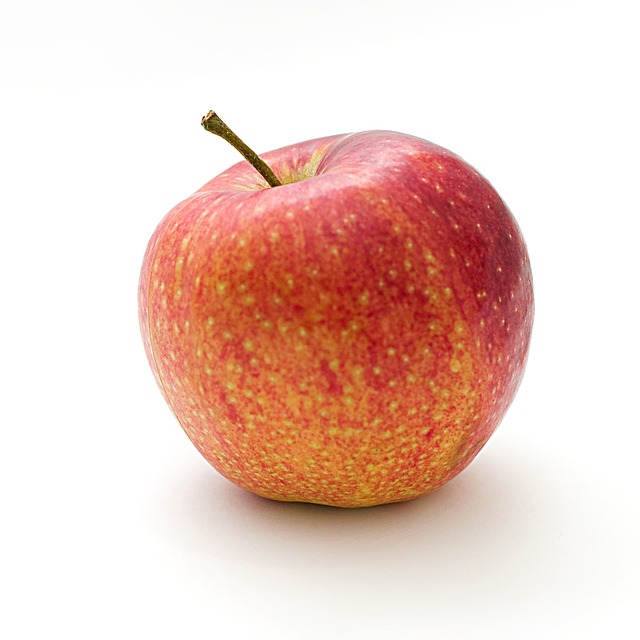
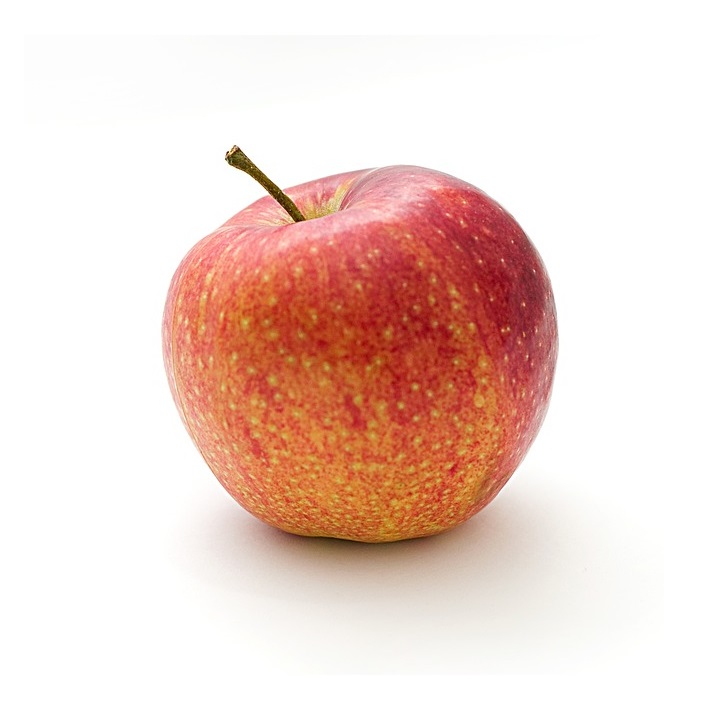
Se corrigieron imgs, se agrego js para crear tarjetas, pendiente css

Changed region(s): [[0.1875, 0.1562, 0.8438, 0.9062]]

diff --git a/js/script.js b/js/script.js
@@ -1,0 +1,39 @@
+/* var catalogo = [{id: 1, nombre: "Manzanas", peso: 0.200, precio: 1.00, ruta: "../imagenes/manzana.jpg"}, 
+{id: 2, nombre: "Naranjas", peso: 0.180, precio: 0.60}, 
+{id: 3, nombre: "Papayas", peso: 2.000, precio: 2.00},
+{id: 4, nombre: "Plátanos", peso: 0.150, precio: 0.50},
+{id: 5, nombre: "Mangos", peso: 0.350, precio: 1.20},
+{id: 6, nombre: "Duraznos", peso: 0.100, precio: 0.30},
+{id: 7, nombre: "Fresas", peso: 0.005, precio: 0.05},
+{id: 8, nombre: "Palta", peso: 0.450, precio: 1.80}] */
+
+var catalogo = [
+    {id: 1, nombre: "Manzana caña", categoria: "fruta", peso: 0.250, precio: 1.80, ruta: "../imagenes/manzana.jpg"},
+    {id: 2, nombre: "Cebolla roja", categoria: "verdura", peso: 0.200, precio: 0.30, ruta: "../imagenes/cebolla.webp"},
+    {id: 3, nombre: "Coliflor", categoria: "verdura", peso: 0.800, precio: 1.00, ruta: "../imagenes/coliflor.webp"},
+    {id: 4, nombre: "Limón", categoria: "verdura", peso: 0.080, precio: 0.10, ruta: "../imagenes/limón.webp"},
+    {id: 5, nombre: "Palta Hass", categoria: "verdura", peso: 0.200, precio: 2.20, ruta: "../imagenes/palta.jpg"},
+    {id: 6, nombre: "Pera", categoria: "fruta", peso: 0.150, precio: 1.30, ruta: "../imagenes/pera.jpg"},
+    {id: 7, nombre: "Pitahaya", categoria: "fruta", peso: 0.200, precio: 2.00, ruta: "../imagenes/pitahaya.webp"},
+    {id: 8, nombre: "Poro", categoria: "verdura", peso: 0.150, precio: 0.50, ruta: "../imagenes/poro.webp"},
+    
+]
+
+renderizarCatalogo(catalogo)
+
+function renderizarCatalogo(catalogo) {
+    let main = document.getElementById("main")
+    for (let i = 0; i < catalogo.length; i++) {
+        let {nombre, peso, precio, ruta} = catalogo[i]
+        main.innerHTML += `
+            <div class=tarjeta>
+                <img src=${ruta}>
+                <div class=propiedades>
+                    <p>${nombre}</p>
+                    <p>Peso: ${peso} Kgs.</p>
+                    <p>Precio: S/. ${precio}</p>
+                </div>
+            </div>
+        `
+    }
+}

diff --git a/styles/style.css b/styles/style.css
@@ -30,7 +30,7 @@ body {
 
 header h1 {
     /*height: 100px;*/
-    
+    min-width: max-content;
     font-size: 40px;
     display: flex;
     flex-direction: row;
@@ -74,4 +74,32 @@ a:hover {
     /*font-size: 26px;*/
     color: rgb(136, 150, 56);
     text-shadow: 1px 1px 1px black;
+}
+
+main {
+    margin: 20px;
+    display: flex;
+}
+
+.tarjeta {
+    border-radius: 5%;
+    width: 30vh;
+    background-color: white;
+    margin: 2vw;
+}
+.tarjeta img {
+    margin: 5%;
+    margin-bottom: 0%;
+    height: 25vh; /*CORREGIR ESTO*/
+}
+
+.propiedades {
+    margin: 5%;
+    margin-top: 0%;
+    padding: 5%;
+}
+
+.propiedades p {
+    font-family: "Kanit";
+    font-size: 25pt;
 }

diff --git a/index.html b/index.html
@@ -12,15 +12,15 @@
         <h1>🍎🍇🍍 Mercado 3 de enero 🍎🍇🍍</h1>
         <ul>
             <li><a>Catálogo</a></li>
+            <li><a>Sedes</a></li>
             <li><a>Contacto</a></li>
-            <li><a>Usuario</a></li>
         </ul>
     </header>
     <hr>
     <!-- INSERTAR CÓDIGO AQUÍ CON JS -->
-    <!-- <main>
+    <main id="main">
         
-    </main> -->
+    </main>
     <script src="js/script.js"></script>
 </body>
 </html>
